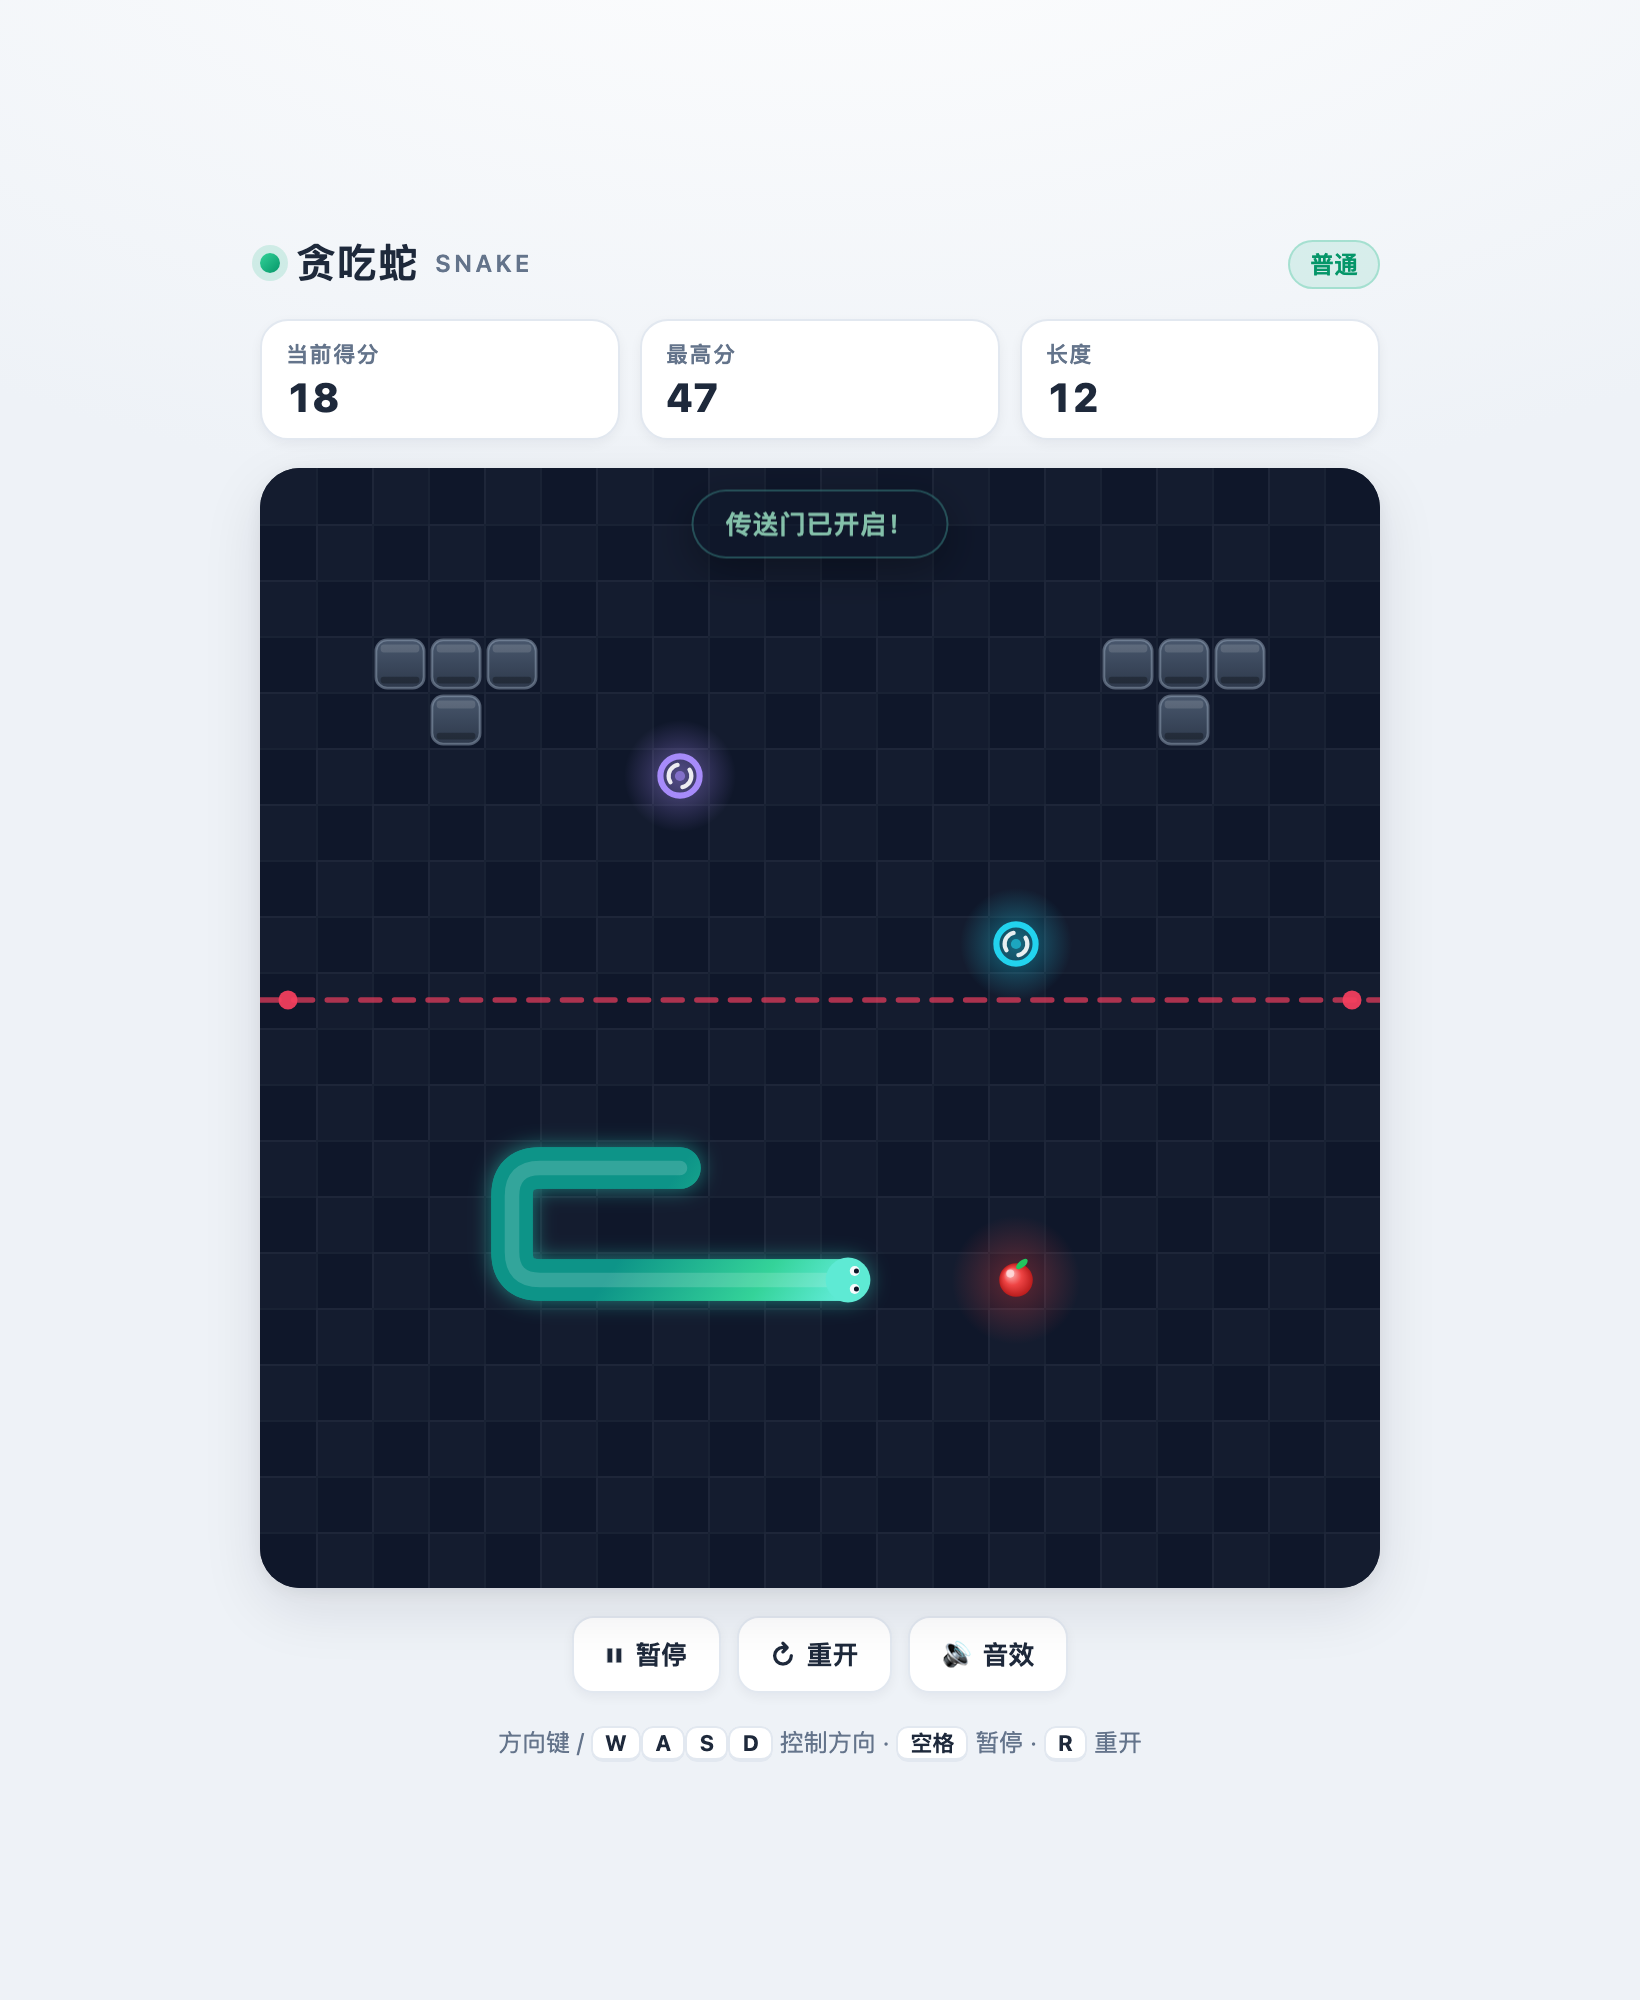
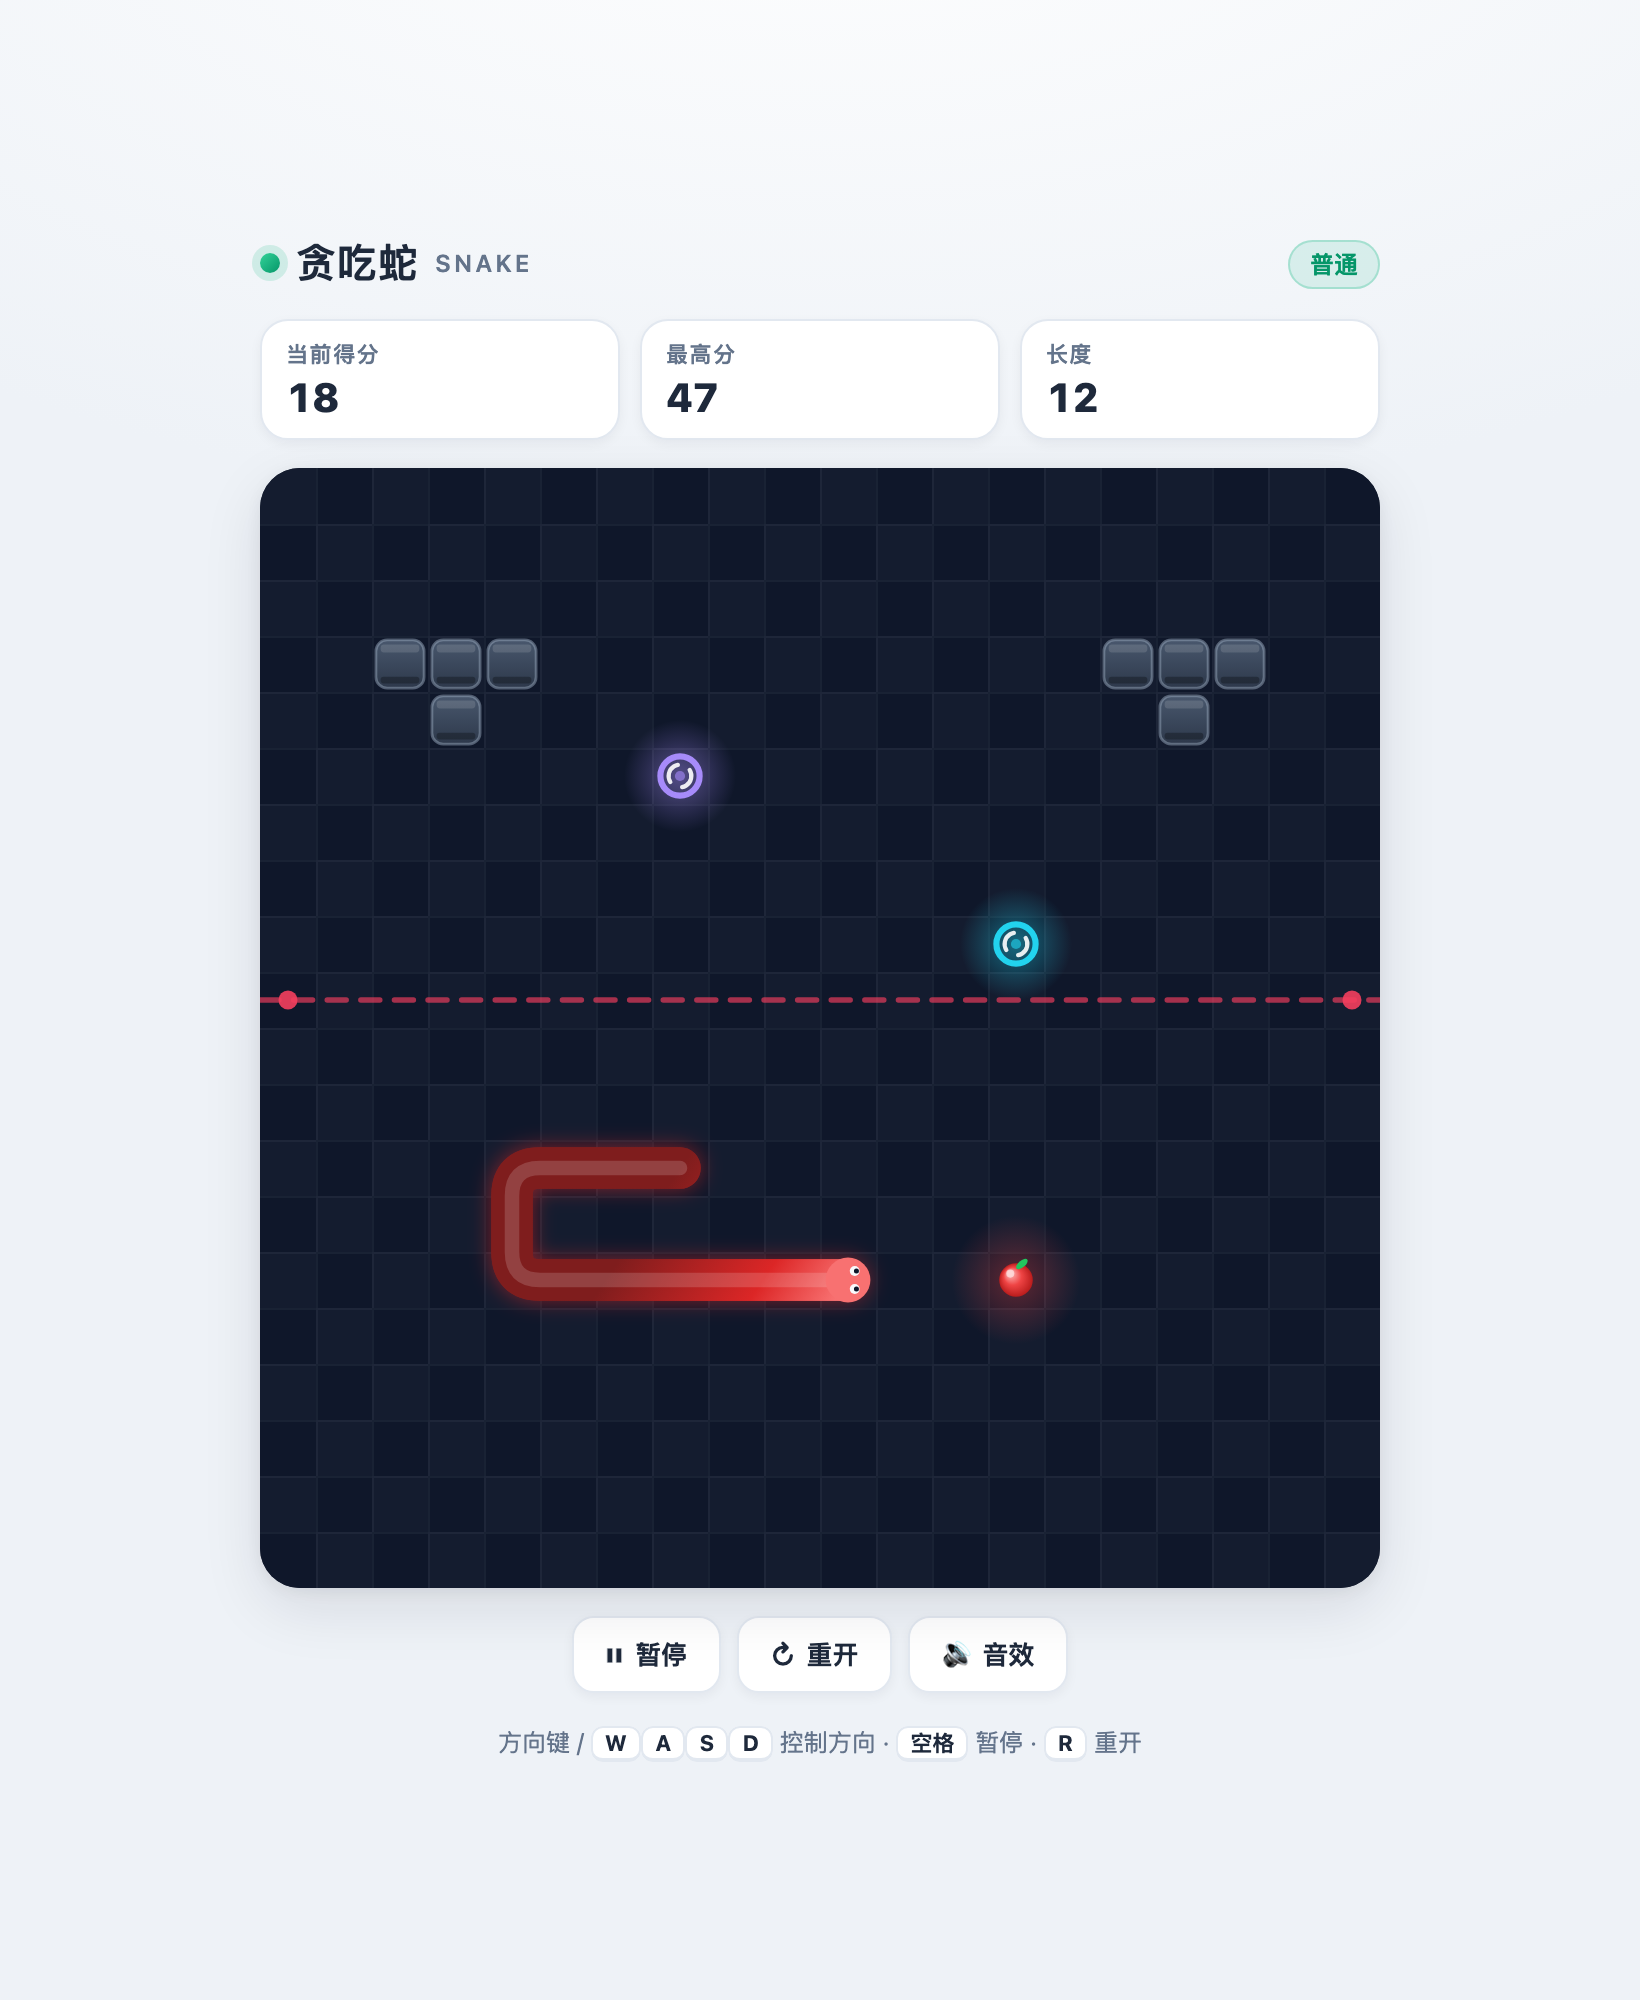
style: 蛇身配色由青绿改为红色
- 蛇身渐变：#5eead4/#34d399/#0d9488 → #f87171/#dc2626/#7f1d1d
- 外发光：rgba(45,212,191,.55) → rgba(220,38,38,.55)
- 蛇头填充：#5eead4 → #f87171
- 吃食物时的扩散环：rgba(94,234,212) → rgba(248,113,113)

按需求保留食物为红色不变；界面主题色（标题圆点、按钮）也未改动。
同步重新生成 docs/preview.png 与 docs/preview-minigames.png，
避免 README 里的截图仍显示旧的绿色蛇身。

Changed region(s): [[0.2799, 0.558, 0.5287, 0.651], [0.4354, 0.248, 0.5598, 0.279]]

diff --git a/index.html b/index.html
@@ -1040,16 +1040,16 @@
 
     // 蛇身渐变（头 → 尾）
     const grad = ctx.createLinearGradient(head.x, head.y, tail.x, tail.y);
-    grad.addColorStop(0, "#5eead4");
-    grad.addColorStop(0.35, "#34d399");
-    grad.addColorStop(1, "#0d9488");
+    grad.addColorStop(0, "#f87171");
+    grad.addColorStop(0.35, "#dc2626");
+    grad.addColorStop(1, "#7f1d1d");
 
     ctx.lineCap = "round";
     ctx.lineJoin = "round";
 
     // 外发光
     ctx.save();
-    ctx.shadowColor = "rgba(45,212,191,.55)";
+    ctx.shadowColor = "rgba(220,38,38,.55)";
     ctx.shadowBlur = cell * 0.75;
     ctx.strokeStyle = grad;
     ctx.lineWidth = cell * 0.74;
@@ -1068,7 +1068,7 @@
 
     // 蛇头
     const d = DIRS[game.dir];
-    ctx.fillStyle = "#5eead4";
+    ctx.fillStyle = "#f87171";
     ctx.beginPath();
     ctx.arc(head.x, head.y, cell * 0.40, 0, Math.PI * 2);
     ctx.fill();
@@ -1126,7 +1126,7 @@
     // 吃到食物时的一圈扩散光
     if (game.eatFlash > 0) {
       const h = segCenter(0, game.alpha);
-      ctx.strokeStyle = "rgba(94,234,212," + (game.eatFlash * 0.5) + ")";
+      ctx.strokeStyle = "rgba(248,113,113," + (game.eatFlash * 0.5) + ")";
       ctx.lineWidth = 2;
       ctx.beginPath();
       ctx.arc(h.x, h.y, cell * (0.6 + (1 - game.eatFlash) * 1.6), 0, Math.PI * 2);
